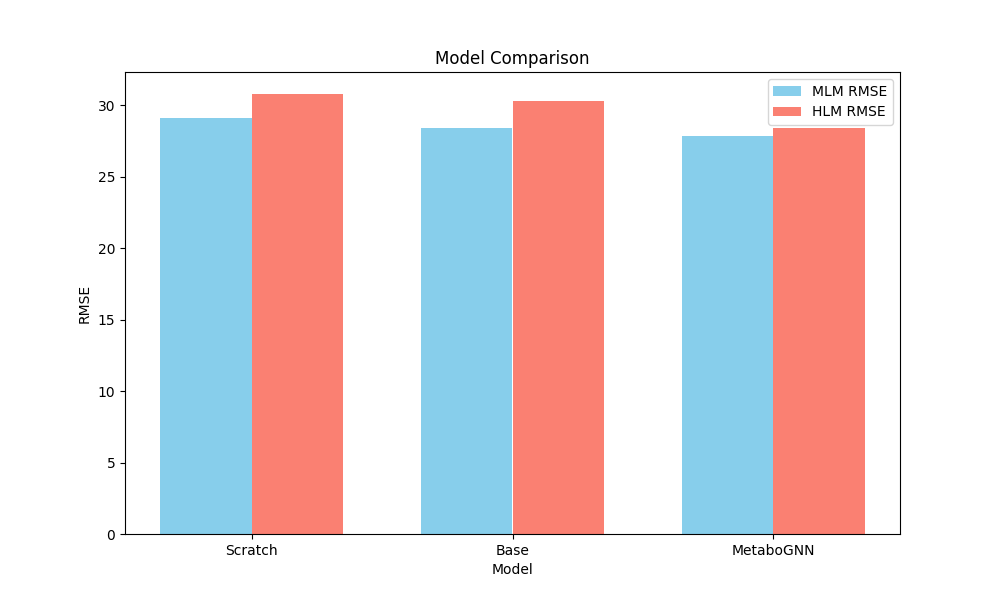
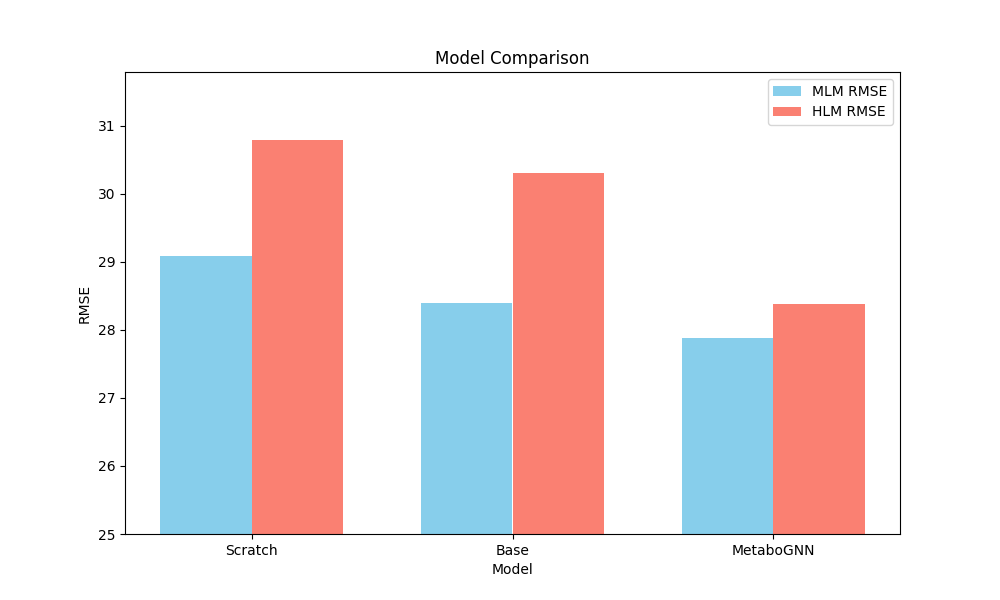
.

diff --git a/infer.py b/infer.py
@@ -86,6 +86,7 @@ class CustomDataset(InMemoryDataset):
         self.targets_list = targets_list
 
 class MetaboGNN(torch.nn.Module):
+
     def __init__(self, mode):
         super(MetaboGNN, self).__init__()
         self.mode = mode
@@ -120,14 +121,13 @@ class MetaboGNN(torch.nn.Module):
 
     def forward(self, batch):
         mol = self.gnn(batch)
-
         out1 = torch.sigmoid(self.fc1(mol).squeeze(1)) * 100        
-        if self.mode == 'MetaoGNN':
+        if self.mode == 'MetaboGNN':
             out2 = (torch.sigmoid(self.fc2(mol).squeeze(1))-0.5) * 200
         else:
-            out2 = torch.sigmoid(self.fc1(mol).squeeze(1)) * 100        
-
+            out2 = torch.sigmoid(self.fc1(mol).squeeze(1)) * 100
         return out1, out2
+    
 def evaluate_model(model, test_loader, device, model_name):
     """모델 평가 함수"""
     model.eval()
@@ -188,7 +188,7 @@ def main():
     
     # 모델 2: Base 평가
     model_base = MetaboGNN(mode='Base').to(device)
-    model_base.load_state_dict(torch.load('ckpt/2025_base.pt'))
+    model_base.load_state_dict(torch.load('ckpt/2025_Base.pt'))
     mlm_rmse, hlm_rmse = evaluate_model(model_base, test_loader, device, "Base")
     results['Model'].append('Base')
     results['MLM RMSE'].append(mlm_rmse)
@@ -196,7 +196,7 @@ def main():
     
     # 모델 3: MetaboGNN 평가
     model_metabognn = MetaboGNN(mode='MetaboGNN').to(device)
-    model_metabognn.load_state_dict(torch.load('ckpt/2025.pt'))
+    model_metabognn.load_state_dict(torch.load('ckpt/2025_MetaboGNN.pt'))
     mlm_rmse, hlm_rmse = evaluate_model(model_metabognn, test_loader, device, "MetaboGNN")
     results['Model'].append('MetaboGNN')
     results['MLM RMSE'].append(mlm_rmse)
@@ -214,6 +214,9 @@ def main():
     plt.bar(index, results['MLM RMSE'], bar_width, label='MLM RMSE', color='skyblue')
     plt.bar(index + bar_width, results['HLM RMSE'], bar_width, label='HLM RMSE', color='salmon')
     
+    ymax = max(max(results['MLM RMSE']), max(results['HLM RMSE'])) + 1  # 최대값 + 여유공간
+    plt.ylim(25, ymax)
+
     plt.xlabel('Model')
     plt.ylabel('RMSE')
     plt.title('Model Comparison')

diff --git a/train.py b/train.py
@@ -142,7 +142,7 @@ class MetaboGNN(torch.nn.Module):
         mol = self.gnn(batch)
 
         out1 = torch.sigmoid(self.fc1(mol).squeeze(1)) * 100        
-        if self.mode == 'MetaoGNN':
+        if self.mode == 'MetaboGNN':
             out2 = (torch.sigmoid(self.fc2(mol).squeeze(1))-0.5) * 200
         else:
             out2 = torch.sigmoid(self.fc1(mol).squeeze(1)) * 100        
@@ -234,19 +234,14 @@ def main(args):
         train_loss = 0
         for batch in train_loader:
             batch = batch.to(args.device)
-            
+            targets = batch.y.to(args.device)
+            target_mlm, target_hlm = targets[:, 0], targets[:, 1]
+
             if args.mode == 'MetaboGNN':
-                pred_mlm, pred_res = model(batch)
-            
-                targets = batch.y.to(args.device)
-                target_mlm, target_hlm = targets[:, 0], targets[:, 1]
-                
+                pred_mlm, pred_res = model(batch)                                        
                 loss2 = mse_loss(pred_mlm-pred_res, target_hlm)
             else:
                 pred_mlm, pred_hlm = model(batch)
-                targets = batch.y.to(args.device)
-                target_mlm, target_hlm = targets[:, 0], targets[:, 1]
-
                 loss2 = mse_loss(pred_hlm, target_hlm)
 
             loss1 = mse_loss(pred_mlm, target_mlm) 
